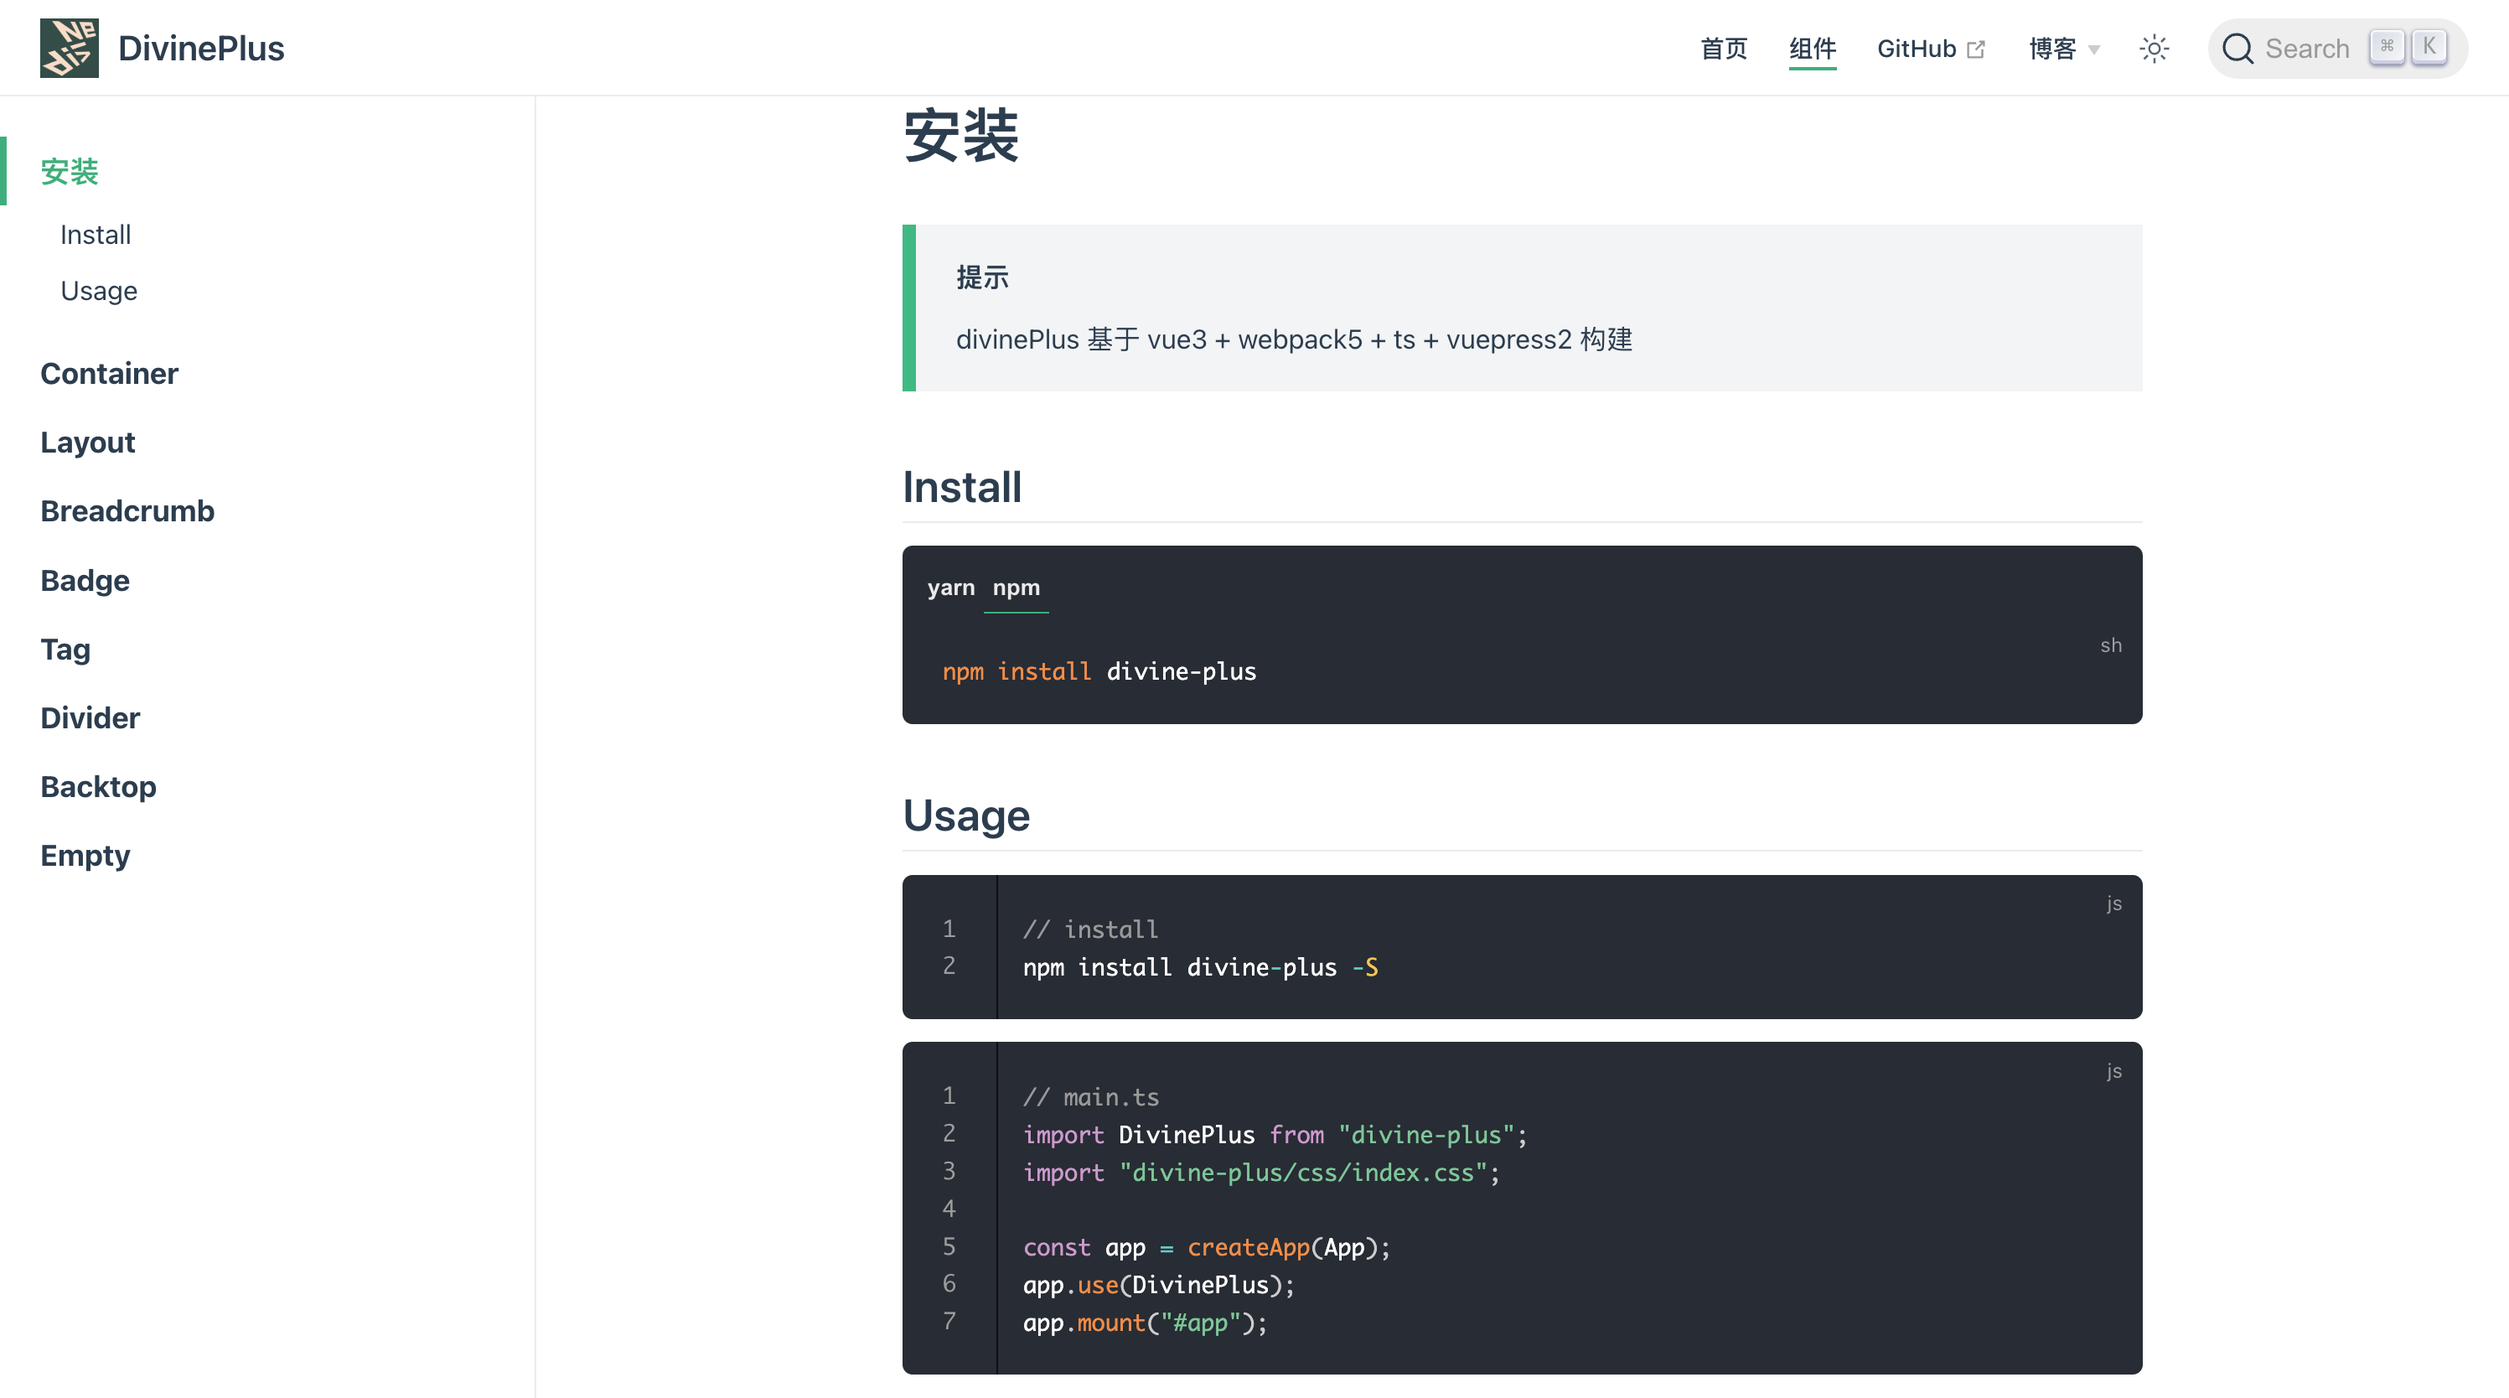
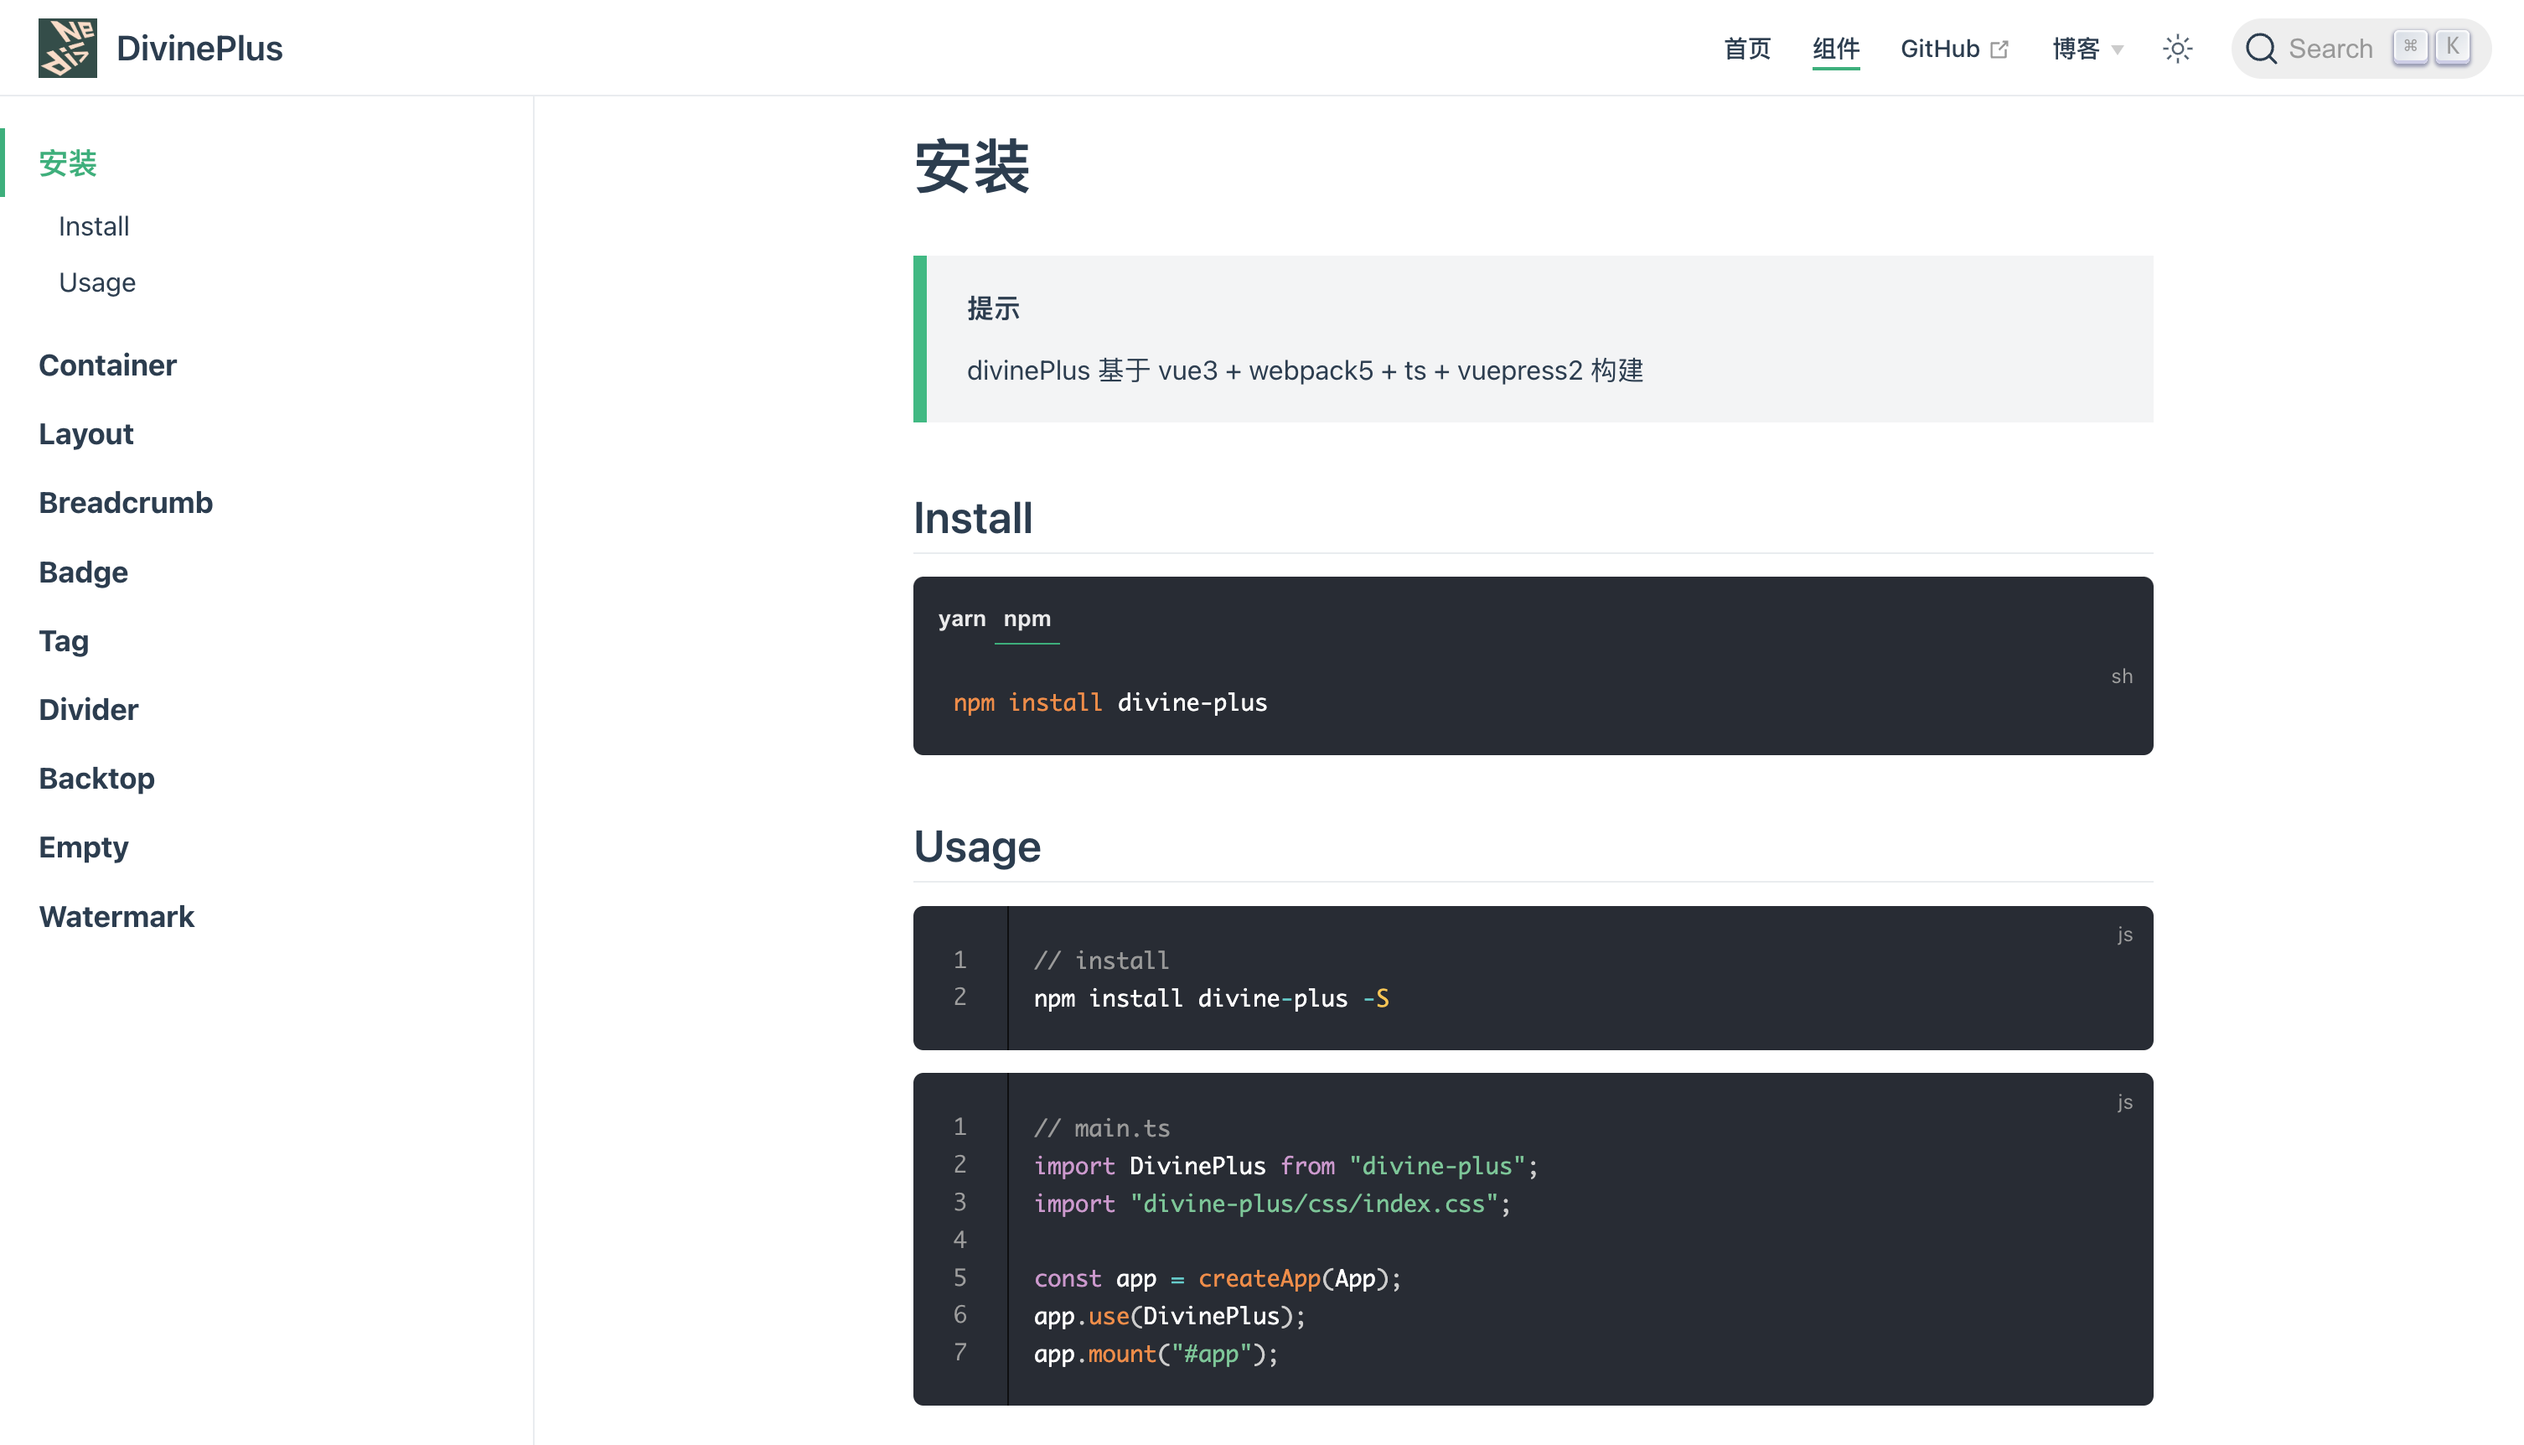
feat: watermark/process.

diff --git a/docs/.vuepress/client.js b/docs/.vuepress/client.js
@@ -8,13 +8,13 @@ import "../../packages/theme-chalk/index.scss";
 import "highlight.js/styles/atom-one-dark-reasonable.css";
 import hljs from "highlight.js/lib/core";
 import javascript from "highlight.js/lib/languages/javascript";
-import hljsVuePlugin from "@highlightjs/vue-plugin"; // A. 打包说明文档时，注释掉AB两个地方的代码，然后手动引入高亮style
+// import hljsVuePlugin from "@highlightjs/vue-plugin"; // A. 打包说明文档时，注释掉AB两个地方的代码，然后手动引入高亮style
 
 hljs.registerLanguage("javascript", javascript);
 
 export default defineClientConfig({
   enhance({ app }) {
     app.use(DivinePlus);
-    app.use(hljsVuePlugin); // B
+    // app.use(hljsVuePlugin); // B
   },
 });

diff --git a/packages/components/watermark/utils/hooks/useCreateWatermark.ts b/packages/components/watermark/utils/hooks/useCreateWatermark.ts
@@ -54,7 +54,7 @@ export const useCreateWatermark = (
     ctx.translate(canvas.width / 2, canvas.height / 2);
     ctx.rotate((Math.PI / 180) * -45); // 弧度 = ( 2 * Math.PI / 360) * -45
 
-    const font = `oblique ${fontsize} serif, Arial, sans-serif`;
+    const font = `${fontsize} serif, Arial, sans-serif`;
     ctx.font = font;
     ctx.fillStyle = fontcolor;
     ctx.textAlign = "center";

diff --git a/packages/components/watermark/process.md b/packages/components/watermark/process.md
@@ -1,3 +1,38 @@
+# 组件设计
+
+```
+我们在实现 Watermark 组件时，需要考虑以下问题？
+---
+
+1
+方式: 在vue3中有哪些方式可以实现水印功能？
+- 组件: 我们可以通过组件来实现水印
+- 指令: 因为水印和DOM操作强相关，因此可以通过指令的思路来实现
+
+2
+区别: 水印图片 和 水印文字 有什么区别？
+- 水印图片: 异步，因为 img.onload 异步完成后，我们才可以进行 context.drawImage 绘制
+- 水印文字: 同步，直接 context.fillText 即可
+
+3
+生成: 如何生成水印？
+- 前端: 通过 canvas 画文字和图片实现即可
+- 后端: 比如图片可以通过后端来处理
+- 区别: 后端一般只针对图片处理，而前端可以给任何资源做水印，范围广
+
+4
+防篡改: 如何防止水印被篡改
+- 篡改的方式
+  - 1.直接通过浏览器调试，删除水印DOM节点
+  - 2.修改css，比如透明度
+  - 3.修改 属性 等
+  - 4.其他方式 ps
+- 防篡改
+  - 监听: 水印的删除操作，属性修改等
+  - 生成: 当监听到上面的操作后，删除水印，再重新生成新的水印
+  - api: MutationObserver
+```
+
 # 前置知识
 
 ### 一些单词

diff --git a/docs/components/watermark.md b/docs/components/watermark.md
@@ -2,11 +2,12 @@
 
 水印组件
 
-## 基本用法
+## 水印文字
 
 <Watermark/>
 
 ## 水印图片
+
 <WatermarkImg />
 
 ## Watermark 组件属性
